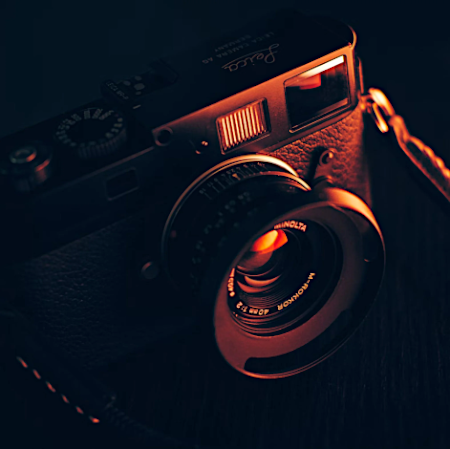
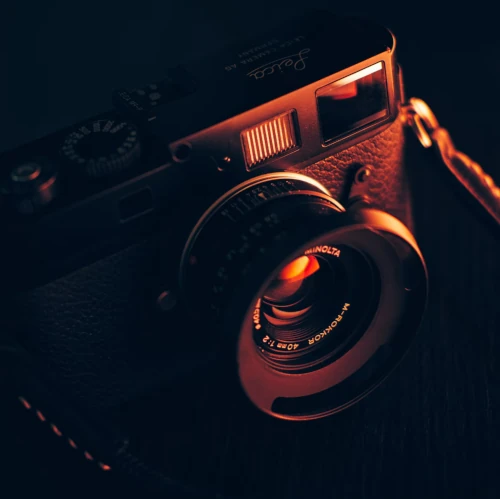
Modification image appareil photo et srcset/sizes

diff --git a/index.html b/index.html
@@ -419,13 +419,17 @@
 				</div>
 				<div class="picture right">
 					<img
+						width="500px"
+						height="500px"
 						src="./assets/images/appareil-photo.webp"
 						srcset="
-							./assets/images/appareil-photo.webp      1920w,
-							./assets/images/appareil-photo-1000.webp 1000w,
-							./assets/images/appareil-photo-650.webp   650w,
-							./assets/images/appareil-photo-320.webp   320w
+							./assets/images/appareil-photo.webp     500w,
+							./assets/images/appareil-photo-400.webp 400w,
+							./assets/images/appareil-photo-320.webp 320w
 						"
+						sizes="(max-width: 1000px) 400px,
+						(max-width: 650px) 320px,
+						500px"
 						alt="Appareil photo"
 						loading="lazy"
 					/>
